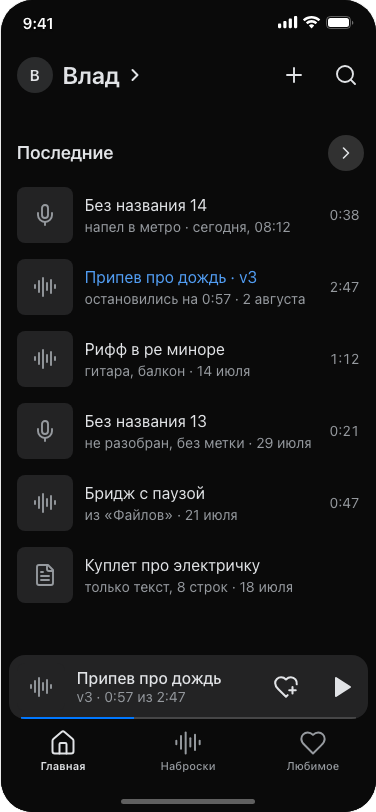
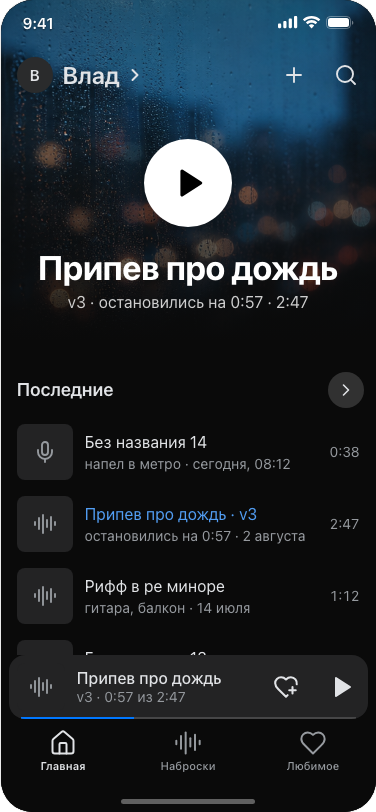
Мотив: вернул героя на главную — «Припев про дождь» на снимке дня записи, play и переход к песне; в светлой теме шапка поверх кадра белая

diff --git a/platform/concepts/breath/screens/home.html b/platform/concepts/breath/screens/home.html
@@ -1,1 +1,1 @@
-<div class="screen ui vk-dark" id="scr-home"><div class="ui-scroll is-root"><header class="ui-top"><button class="ui-me" data-go="profile" aria-label="Профиль"><span class="ui-avatar">В</span><strong>Влад</strong><svg><use href="#i-chevron-right"/></svg></button><button class="ui-icon-btn" data-go="new" aria-label="Новый набросок"><svg><use href="#i-plus"/></svg></button><button class="ui-icon-btn" data-go="search" aria-label="Поиск"><svg><use href="#i-search"/></svg></button></header><section class="ui-sec perm-hidden" data-show-granted="push"><div class="ui-list"><div class="ui-row"><span class="ui-thumb br-ico is-accent"><svg><use href="#i-bell"/></svg></span><span class="ui-row-text"><strong>Завтра в 20:00 · Припев про дождь</strong><span>дописать бридж по фото</span></span></div></div></section><section class="ui-sec"><div class="ui-sec-head"><h2>Последние</h2><button class="ui-icon-btn is-fill" data-go="discover" aria-label="Все наброски"><span><svg><use href="#i-chevron-right"/></svg></span></button></div><div class="ui-list"><button class="ui-row" data-go="player"><span class="ui-thumb br-ico"><svg><use href="#i-mic"/></svg></span><span class="ui-row-text"><strong>Без названия 14</strong><span>напел в метро · сегодня, 08:12</span></span><span class="ui-row-end is-value">0:38</span></button><button class="ui-row is-now" data-primary data-go="player"><span class="ui-thumb br-ico"><svg><use href="#i-audio-lines"/></svg></span><span class="ui-row-text"><strong>Припев про дождь · v3</strong><span>остановились на 0:57 · 2 августа</span></span><span class="ui-row-end is-value">2:47</span></button><button class="ui-row" data-go="player"><span class="ui-thumb br-ico"><svg><use href="#i-audio-lines"/></svg></span><span class="ui-row-text"><strong>Рифф в ре миноре</strong><span>гитара, балкон · 14 июля</span></span><span class="ui-row-end is-value">1:12</span></button><button class="ui-row" data-go="player"><span class="ui-thumb br-ico"><svg><use href="#i-mic"/></svg></span><span class="ui-row-text"><strong>Без названия 13</strong><span>не разобран, без метки · 29 июля</span></span><span class="ui-row-end is-value">0:21</span></button><button class="ui-row" data-go="player"><span class="ui-thumb br-ico"><svg><use href="#i-audio-lines"/></svg></span><span class="ui-row-text"><strong>Бридж с паузой</strong><span>из «Файлов» · 21 июля</span></span><span class="ui-row-end is-value">0:47</span></button><button class="ui-row" data-go="detail"><span class="ui-thumb br-ico"><svg><use href="#i-file-text"/></svg></span><span class="ui-row-text"><strong>Куплет про электричку</strong><span>только текст, 8 строк · 18 июля</span></span></button></div></section></div><nav class="ui-tabs tabbar"><div class="ui-mini"><button class="ui-mini-main" data-go="player" aria-label="Открыть плеер"><span class="ui-mini-face br-ico"><svg><use href="#i-audio-lines"/></svg></span><span class="ui-mini-text"><strong>Припев про дождь</strong><span>v3 · 0:57 из 2:47</span></span></button><button class="ui-icon-btn" data-toast="Сохранено в «Любимое»" aria-label="Сохранить в «Любимое»"><svg><use href="#i-heart-plus"/></svg></button><button class="ui-icon-btn" data-go="player" aria-label="Продолжить слушать"><svg class="ui-fill-ico"><use href="#i-play"/></svg></button><span class="ui-mini-bar"><i style="width:34%"></i></span></div><div class="ui-tabrow"><button class="ui-tab tab is-on" data-go="home"><svg><use href="#i-house"/></svg><span>Главная</span></button><button class="ui-tab tab" data-go="discover"><svg><use href="#i-audio-lines"/></svg><span>Наброски</span></button><button class="ui-tab tab" data-go="library"><svg><use href="#i-heart"/></svg><span>Любимое</span></button></div></nav><div class="home-ind"></div></div>
+<div class="screen ui vk-dark" id="scr-home"><div class="ui-scroll"><section class="ui-hero br-hero cover cover-3"><header class="ui-top br-hero-top"><button class="ui-me" data-go="profile" aria-label="Профиль"><span class="ui-avatar">В</span><strong>Влад</strong><svg><use href="#i-chevron-right"/></svg></button><button class="ui-icon-btn" data-go="new" aria-label="Новый набросок"><svg><use href="#i-plus"/></svg></button><button class="ui-icon-btn" data-go="search" aria-label="Поиск"><svg><use href="#i-search"/></svg></button></header><button class="ui-play is-xl" data-go="player" aria-label="Слушать «Припев про дождь»"><svg><use href="#i-play"/></svg></button><button class="br-hero-copy" data-go="detail" aria-label="Припев про дождь"><strong class="ui-display">Припев про дождь</strong><span>v3 · остановились на 0:57 · 2:47</span></button></section><section class="ui-sec perm-hidden" data-show-granted="push"><div class="ui-list"><div class="ui-row"><span class="ui-thumb br-ico is-accent"><svg><use href="#i-bell"/></svg></span><span class="ui-row-text"><strong>Завтра в 20:00 · Припев про дождь</strong><span>дописать бридж по фото</span></span></div></div></section><section class="ui-sec"><div class="ui-sec-head"><h2>Последние</h2><button class="ui-icon-btn is-fill" data-go="discover" aria-label="Все наброски"><span><svg><use href="#i-chevron-right"/></svg></span></button></div><div class="ui-list"><button class="ui-row" data-go="player"><span class="ui-thumb br-ico"><svg><use href="#i-mic"/></svg></span><span class="ui-row-text"><strong>Без названия 14</strong><span>напел в метро · сегодня, 08:12</span></span><span class="ui-row-end is-value">0:38</span></button><button class="ui-row is-now" data-primary data-go="player"><span class="ui-thumb br-ico"><svg><use href="#i-audio-lines"/></svg></span><span class="ui-row-text"><strong>Припев про дождь · v3</strong><span>остановились на 0:57 · 2 августа</span></span><span class="ui-row-end is-value">2:47</span></button><button class="ui-row" data-go="player"><span class="ui-thumb br-ico"><svg><use href="#i-audio-lines"/></svg></span><span class="ui-row-text"><strong>Рифф в ре миноре</strong><span>гитара, балкон · 14 июля</span></span><span class="ui-row-end is-value">1:12</span></button><button class="ui-row" data-go="player"><span class="ui-thumb br-ico"><svg><use href="#i-mic"/></svg></span><span class="ui-row-text"><strong>Без названия 13</strong><span>не разобран, без метки · 29 июля</span></span><span class="ui-row-end is-value">0:21</span></button><button class="ui-row" data-go="player"><span class="ui-thumb br-ico"><svg><use href="#i-audio-lines"/></svg></span><span class="ui-row-text"><strong>Бридж с паузой</strong><span>из «Файлов» · 21 июля</span></span><span class="ui-row-end is-value">0:47</span></button><button class="ui-row" data-go="detail"><span class="ui-thumb br-ico"><svg><use href="#i-file-text"/></svg></span><span class="ui-row-text"><strong>Куплет про электричку</strong><span>только текст, 8 строк · 18 июля</span></span></button></div></section></div><nav class="ui-tabs tabbar"><div class="ui-mini"><button class="ui-mini-main" data-go="player" aria-label="Открыть плеер"><span class="ui-mini-face br-ico"><svg><use href="#i-audio-lines"/></svg></span><span class="ui-mini-text"><strong>Припев про дождь</strong><span>v3 · 0:57 из 2:47</span></span></button><button class="ui-icon-btn" data-toast="Сохранено в «Любимое»" aria-label="Сохранить в «Любимое»"><svg><use href="#i-heart-plus"/></svg></button><button class="ui-icon-btn" data-go="player" aria-label="Продолжить слушать"><svg class="ui-fill-ico"><use href="#i-play"/></svg></button><span class="ui-mini-bar"><i style="width:34%"></i></span></div><div class="ui-tabrow"><button class="ui-tab tab is-on" data-go="home"><svg><use href="#i-house"/></svg><span>Главная</span></button><button class="ui-tab tab" data-go="discover"><svg><use href="#i-audio-lines"/></svg><span>Наброски</span></button><button class="ui-tab tab" data-go="library"><svg><use href="#i-heart"/></svg><span>Любимое</span></button></div></nav><div class="home-ind"></div></div>

diff --git a/platform/concepts/breath/styles.css b/platform/concepts/breath/styles.css
@@ -85,3 +85,13 @@
 /* Камера: рамка под страницу блокнота */
 .br-frame { position:relative; z-index:1; width:248px; aspect-ratio:3/4; margin:72px auto 0; border-radius:12px; box-shadow:0 0 0 2px rgba(255,255,255,.8), 0 0 0 999px rgba(0,0,0,.32); }
 .br-frame + .br-rec-label { margin-top:16px; }
+
+/* Герой главной: песня, к которой возвращаешься, на своём снимке дня записи */
+.cover { background-image:url(assets/media/session-covers-atlas.png); background-size:300% 200%; background-repeat:no-repeat; background-color:#1b2127; }
+.cover-3 { background-position:100% 0; }
+.br-hero { min-height:340px; padding:0 16px 28px; }
+.br-hero-top { position:absolute!important; left:0; right:0; top:var(--safe-top); padding-left:16px; text-align:left; }
+.br-hero .ui-play { margin-bottom:20px; box-shadow:0 8px 32px rgba(0,0,0,.28); }
+.br-hero-copy { display:flex; flex-direction:column; align-items:center; gap:4px; min-height:44px; text-align:center!important; }
+.br-hero-copy > strong { color:#fff; }
+.br-hero-copy > span { font:400 16px/20px var(--ui-face); color:rgba(255,255,255,.8); }

diff --git a/platform/kernel/base.css b/platform/kernel/base.css
@@ -1041,7 +1041,7 @@ body { margin:0; background:var(--page-bg); color:var(--page-ink); font:400 15px
 :root[data-app-theme="light"] .device:has(.screens > .screen.ui.vk-dark.is-on > .ui-scroll > .ui-hero:first-child) .status { color:#fff!important; text-shadow:0 1px 2px rgba(0,0,0,.45)!important; }
 /* Кадр героя в светлой теме не растворяется в белом: подпись поверх него держит затемнение снизу */
 :root[data-app-theme="light"] .ui.vk-dark .ui-hero::after { background:linear-gradient(180deg, rgba(0,0,0,.3) 0%, rgba(0,0,0,.04) 30%, rgba(0,0,0,.32) 64%, rgba(0,0,0,.6) 100%); }
-:root[data-app-theme="light"] .ui.vk-dark .ui-hero { color:#fff; }
+:root[data-app-theme="light"] .ui.vk-dark .ui-hero, :root[data-app-theme="light"] .ui.vk-dark .ui-hero :is(.ui-icon-btn, .ui-me) { color:#fff; }
 .ui.vk-light, .ui.ok-light {
   --ui-row-h:64px; --ui-row-pad:10px;
 }

diff --git a/platform/concepts/breath/docs/02-architecture.md b/platform/concepts/breath/docs/02-architecture.md
@@ -75,8 +75,8 @@ Background audio — capability, а не пользовательское раз
     │   ├─ Поиск (search) — push · открывается: «Поиск», «Поиск по наброскам»
     │   └─ Новый набросок (new) — modal · открывается: «Новый набросок», «Готово» · photos
     │       └─ Добавить из «Фото» (pick) — system picker · открывается: «Добавить из «Фото»» (photos)
-    ├─ Припев про дождь (detail) — push · открывается: «Куплет про электричку», «Припев про дождь» … · camera
-    │   ├─ Припев про дождь · v3 (player) — fullscreen · открывается: «Без названия 14», «Припев про дождь · v3» … · audio
+    ├─ Припев про дождь (detail) — push · открывается: «Припев про дождь», «Куплет про электричку» … · camera
+    │   ├─ Припев про дождь · v3 (player) — fullscreen · открывается: «Слушать «Припев про дождь»», «Без названия 14» … · audio
     │   │   └─ Экран погас (background) — system · открывается: «Слушать в фоне» (audio)
     │   └─ Текст из блокнота (capture) — fullscreen · открывается: «Снять текст из блокнота» (camera)
     │       └─ Текст добавлен (result) — modal · открывается: «Снять страницу» · push
@@ -108,9 +108,9 @@ Background audio — capability, а не пользовательское раз
 | `home` | «Профиль» | `profile` | — | переход |
 | `home` | «Новый набросок» | `new` | — | переход |
 | `home` | «Поиск» | `search` | — | переход |
+| `home` | «Слушать «Припев про дождь»», «Без названия 14» … | `player` | — | переход |
+| `home` | «Припев про дождь», «Куплет про электричку» | `detail` | — | переход |
 | `home` | «Все наброски» | `discover` | — | переход |
-| `home` | «Без названия 14», «Припев про дождь · v3» … | `player` | — | переход |
-| `home` | «Куплет про электричку» | `detail` | — | переход |
 | `discover` | «Новый набросок» | `new` | — | переход |
 | `discover` | «Поиск по наброскам» | `search` | — | переход |
 | `discover` | «Припев про дождь», «Рифф в ре миноре» … | `detail` | — | переход |
@@ -174,6 +174,8 @@ Background audio — capability, а не пользовательское раз
 | `home` | Профиль | элемент экрана | открывает экран | Профиль (profile) | — | — |
 | `home` | Новый набросок | элемент экрана | открывает экран | Новый набросок (new) | — | — |
 | `home` | Поиск | элемент экрана | открывает экран | Поиск (search) | — | — |
+| `home` | Слушать «Припев про дождь» | элемент экрана | открывает экран | Припев про дождь · v3 (player) | — | — |
+| `home` | Припев про дождь | элемент экрана | открывает экран | Припев про дождь (detail) | — | — |
 | `home` | Все наброски | элемент экрана | открывает экран | Наброски (discover) | — | — |
 | `home` | Без названия 14 | элемент экрана | открывает экран | Припев про дождь · v3 (player) | — | — |
 | `home` | Припев про дождь · v3 | элемент экрана | открывает экран | Припев про дождь · v3 (player) | — | — |
